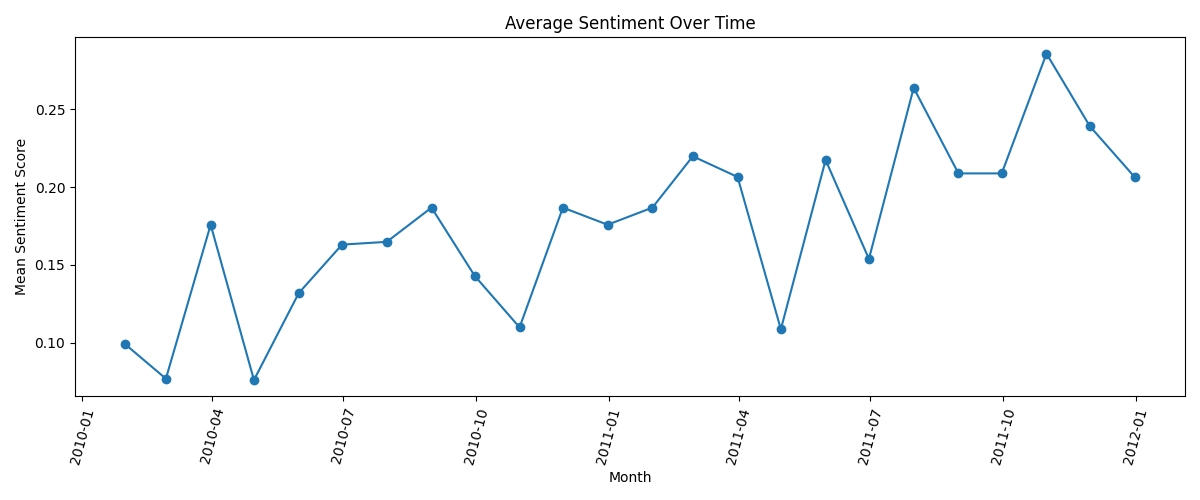
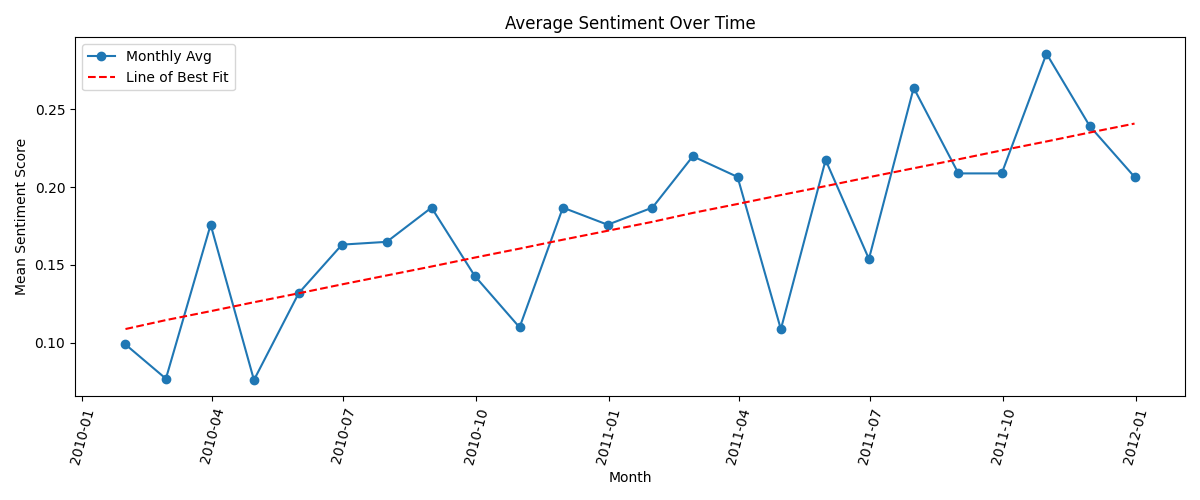
Added line of best fit to avg sentiment over time plot

diff --git a/src/Plot_data.py b/src/Plot_data.py
@@ -1,7 +1,7 @@
 import matplotlib.pyplot as plt
 import pandas as pd
 import os
-
+import numpy as np
 class PlotData:
     def __init__(self, df):
         """
@@ -80,14 +80,15 @@ class PlotData:
     # ------------------------------------------------------------
     def plot_avg_sentiment_over_time(self, date_column="date"):
         """
-        Plot the monthly average sentiment score.
-        Shows if employee sentiment improves or declines over time.
+        Plot the monthly average sentiment score and line of best fit.
         """
         plt.figure(figsize=(12, 5))
+
         # Map sentiment to numeric values
         sent_map = {"POSITIVE": 1, "NEUTRAL": 0, "NEGATIVE": -1}
         self.df["sentiment_num"] = self.df["sentiment"].map(sent_map)
         self.df[date_column] = pd.to_datetime(self.df[date_column], errors="coerce")
+
         # Compute monthly mean sentiment
         monthly_mean = (
             self.df.dropna(subset=[date_column])
@@ -96,13 +97,27 @@ class PlotData:
             .mean()
             .sort_index()
         )
-        # Line plot of average sentiment over time
-        plt.plot(monthly_mean.index, monthly_mean.values, marker="o")
+
+        # Plot average sentiment
+        plt.plot(monthly_mean.index, monthly_mean.values, marker="o", label="Monthly Avg")
+
+        # Compute line of best fit
+        x = np.arange(len(monthly_mean))
+        y = monthly_mean.values
+        coeffs = np.polyfit(x, y, 1)  # linear fit: y = m*x + b
+        trend = np.poly1d(coeffs)
+
+        # Plot trend line
+        plt.plot(monthly_mean.index, trend(x), color="red", linestyle="--", label="Line of Best Fit")
+
+        # Labels
         plt.title("Average Sentiment Over Time")
         plt.xlabel("Month")
         plt.ylabel("Mean Sentiment Score")
         plt.xticks(rotation=75)
+        plt.legend()
         plt.tight_layout()
+
         plt.savefig("visualizations/avg_sentiment_over_time.png")
         plt.close()
 

diff --git a/main.py b/main.py
@@ -3,7 +3,7 @@ import pandas as pd
 import os
 from src.load_data import LoadData
 from src.labeling import SentimentLabeler
-from src.Plot_data import PlotData
+from src.plot_data import PlotData
 
 global df
 df = None
